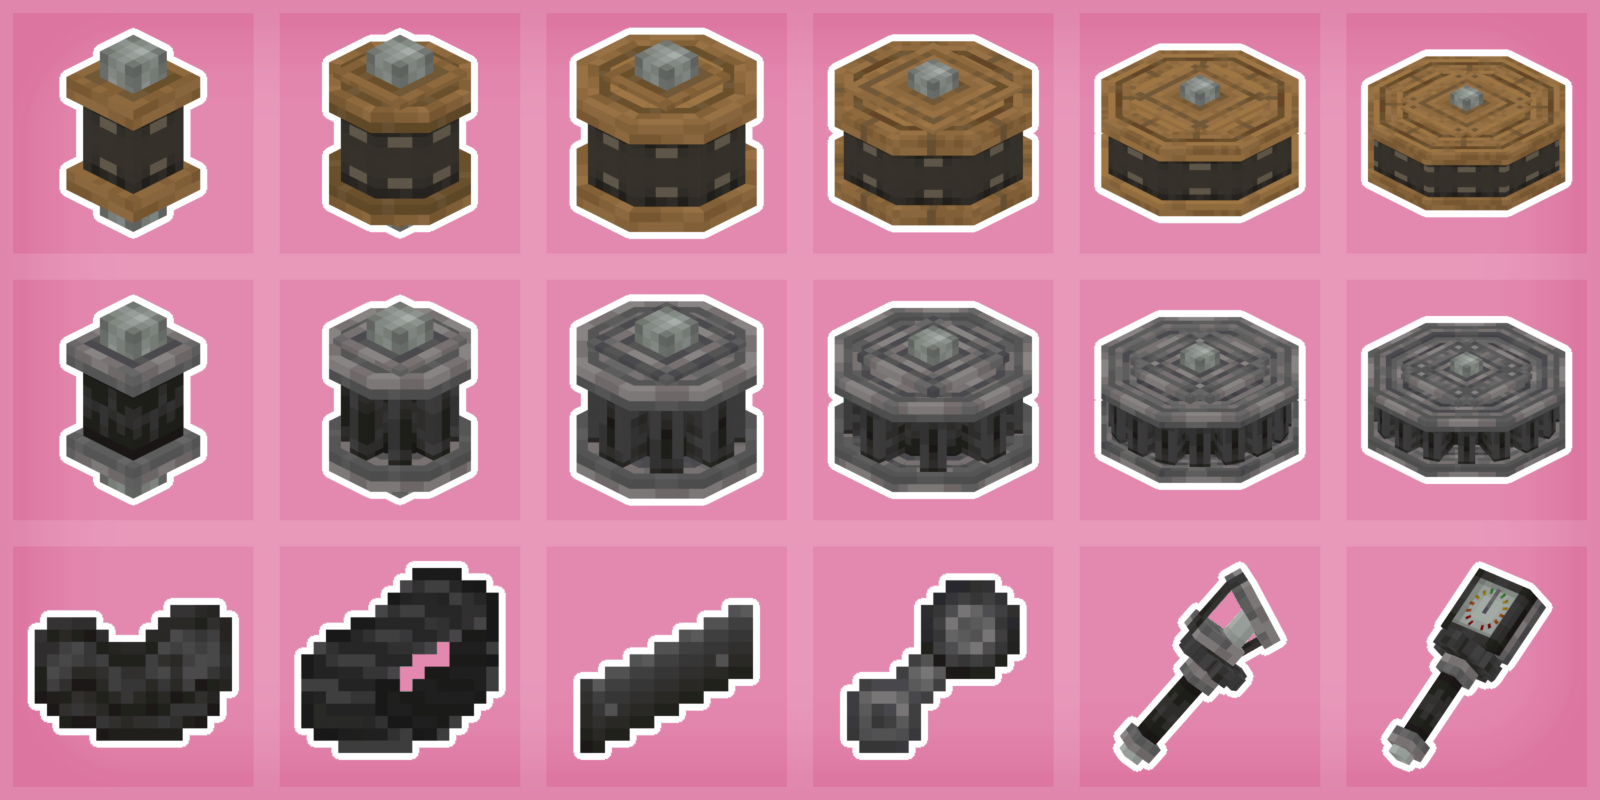
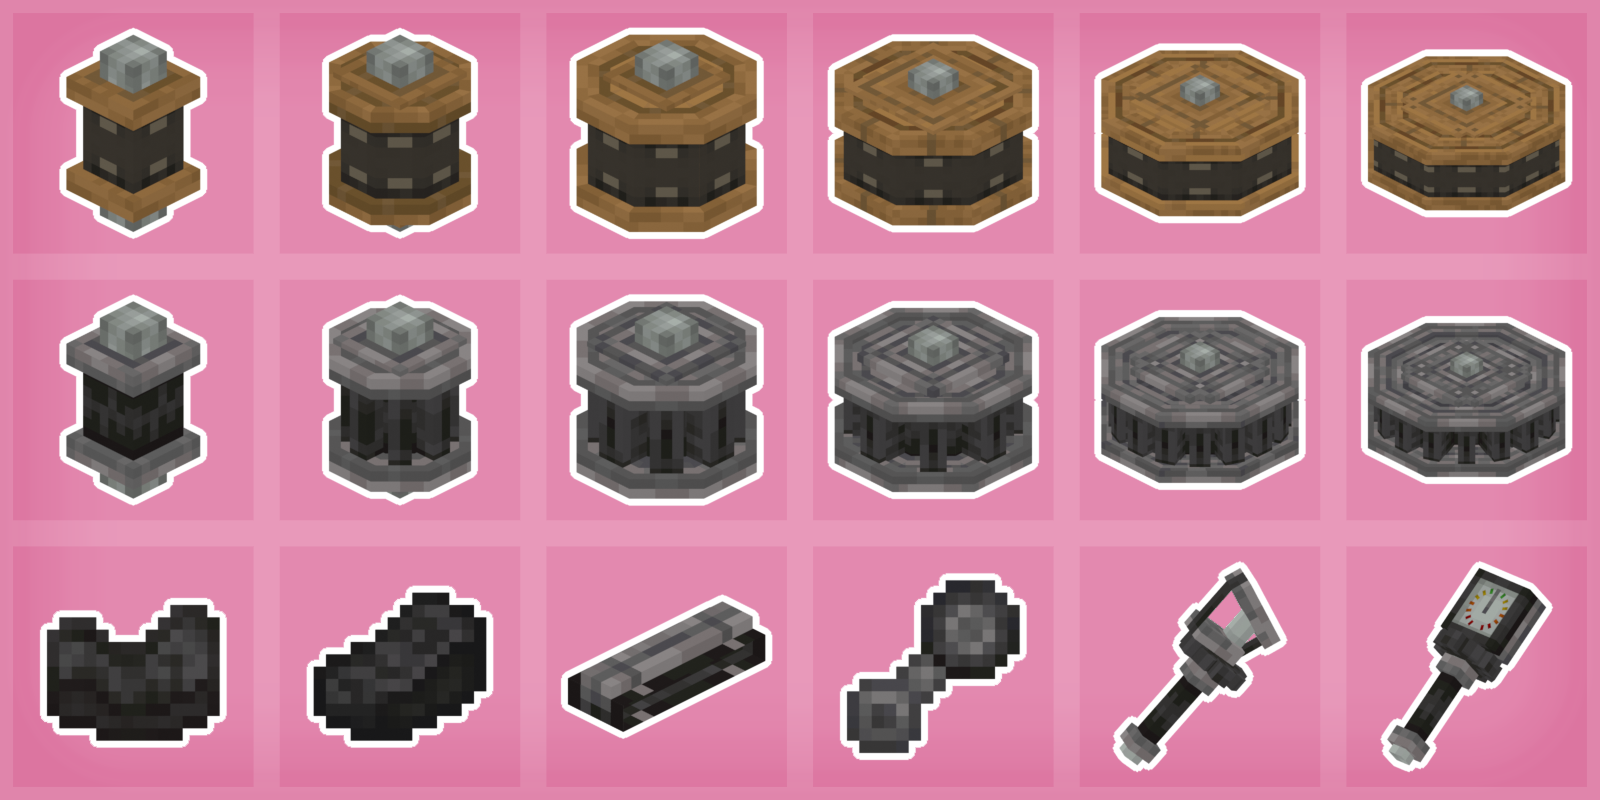
Prepare 3.0.1
The README renders still showed the old grouser and item icons, and the credits left out Hanahaki.

Changed region(s): [[0.125, 0.6875, 0.5, 0.9688], [0.0, 0.75, 0.0625, 0.9062]]

diff --git a/README.md b/README.md
@@ -159,4 +159,4 @@ Gradle needs JDK 21.
 **GPL-3.0-only.** See [LICENSE](https://github.com/Atmerek/bits-n-tracks-ce/blob/main/LICENSE).
 
 Original mod and all original code by **qwxon**.
-Community Edition by **Atmerek** and **Alesrr**, with contributions from **Cubester** and art by **CloverKeep**.
+Community Edition by **Atmerek** and **Alesrr**, with contributions from **Cubester**, the Russian translation by **Hanahaki** and art by **CloverKeep**.
